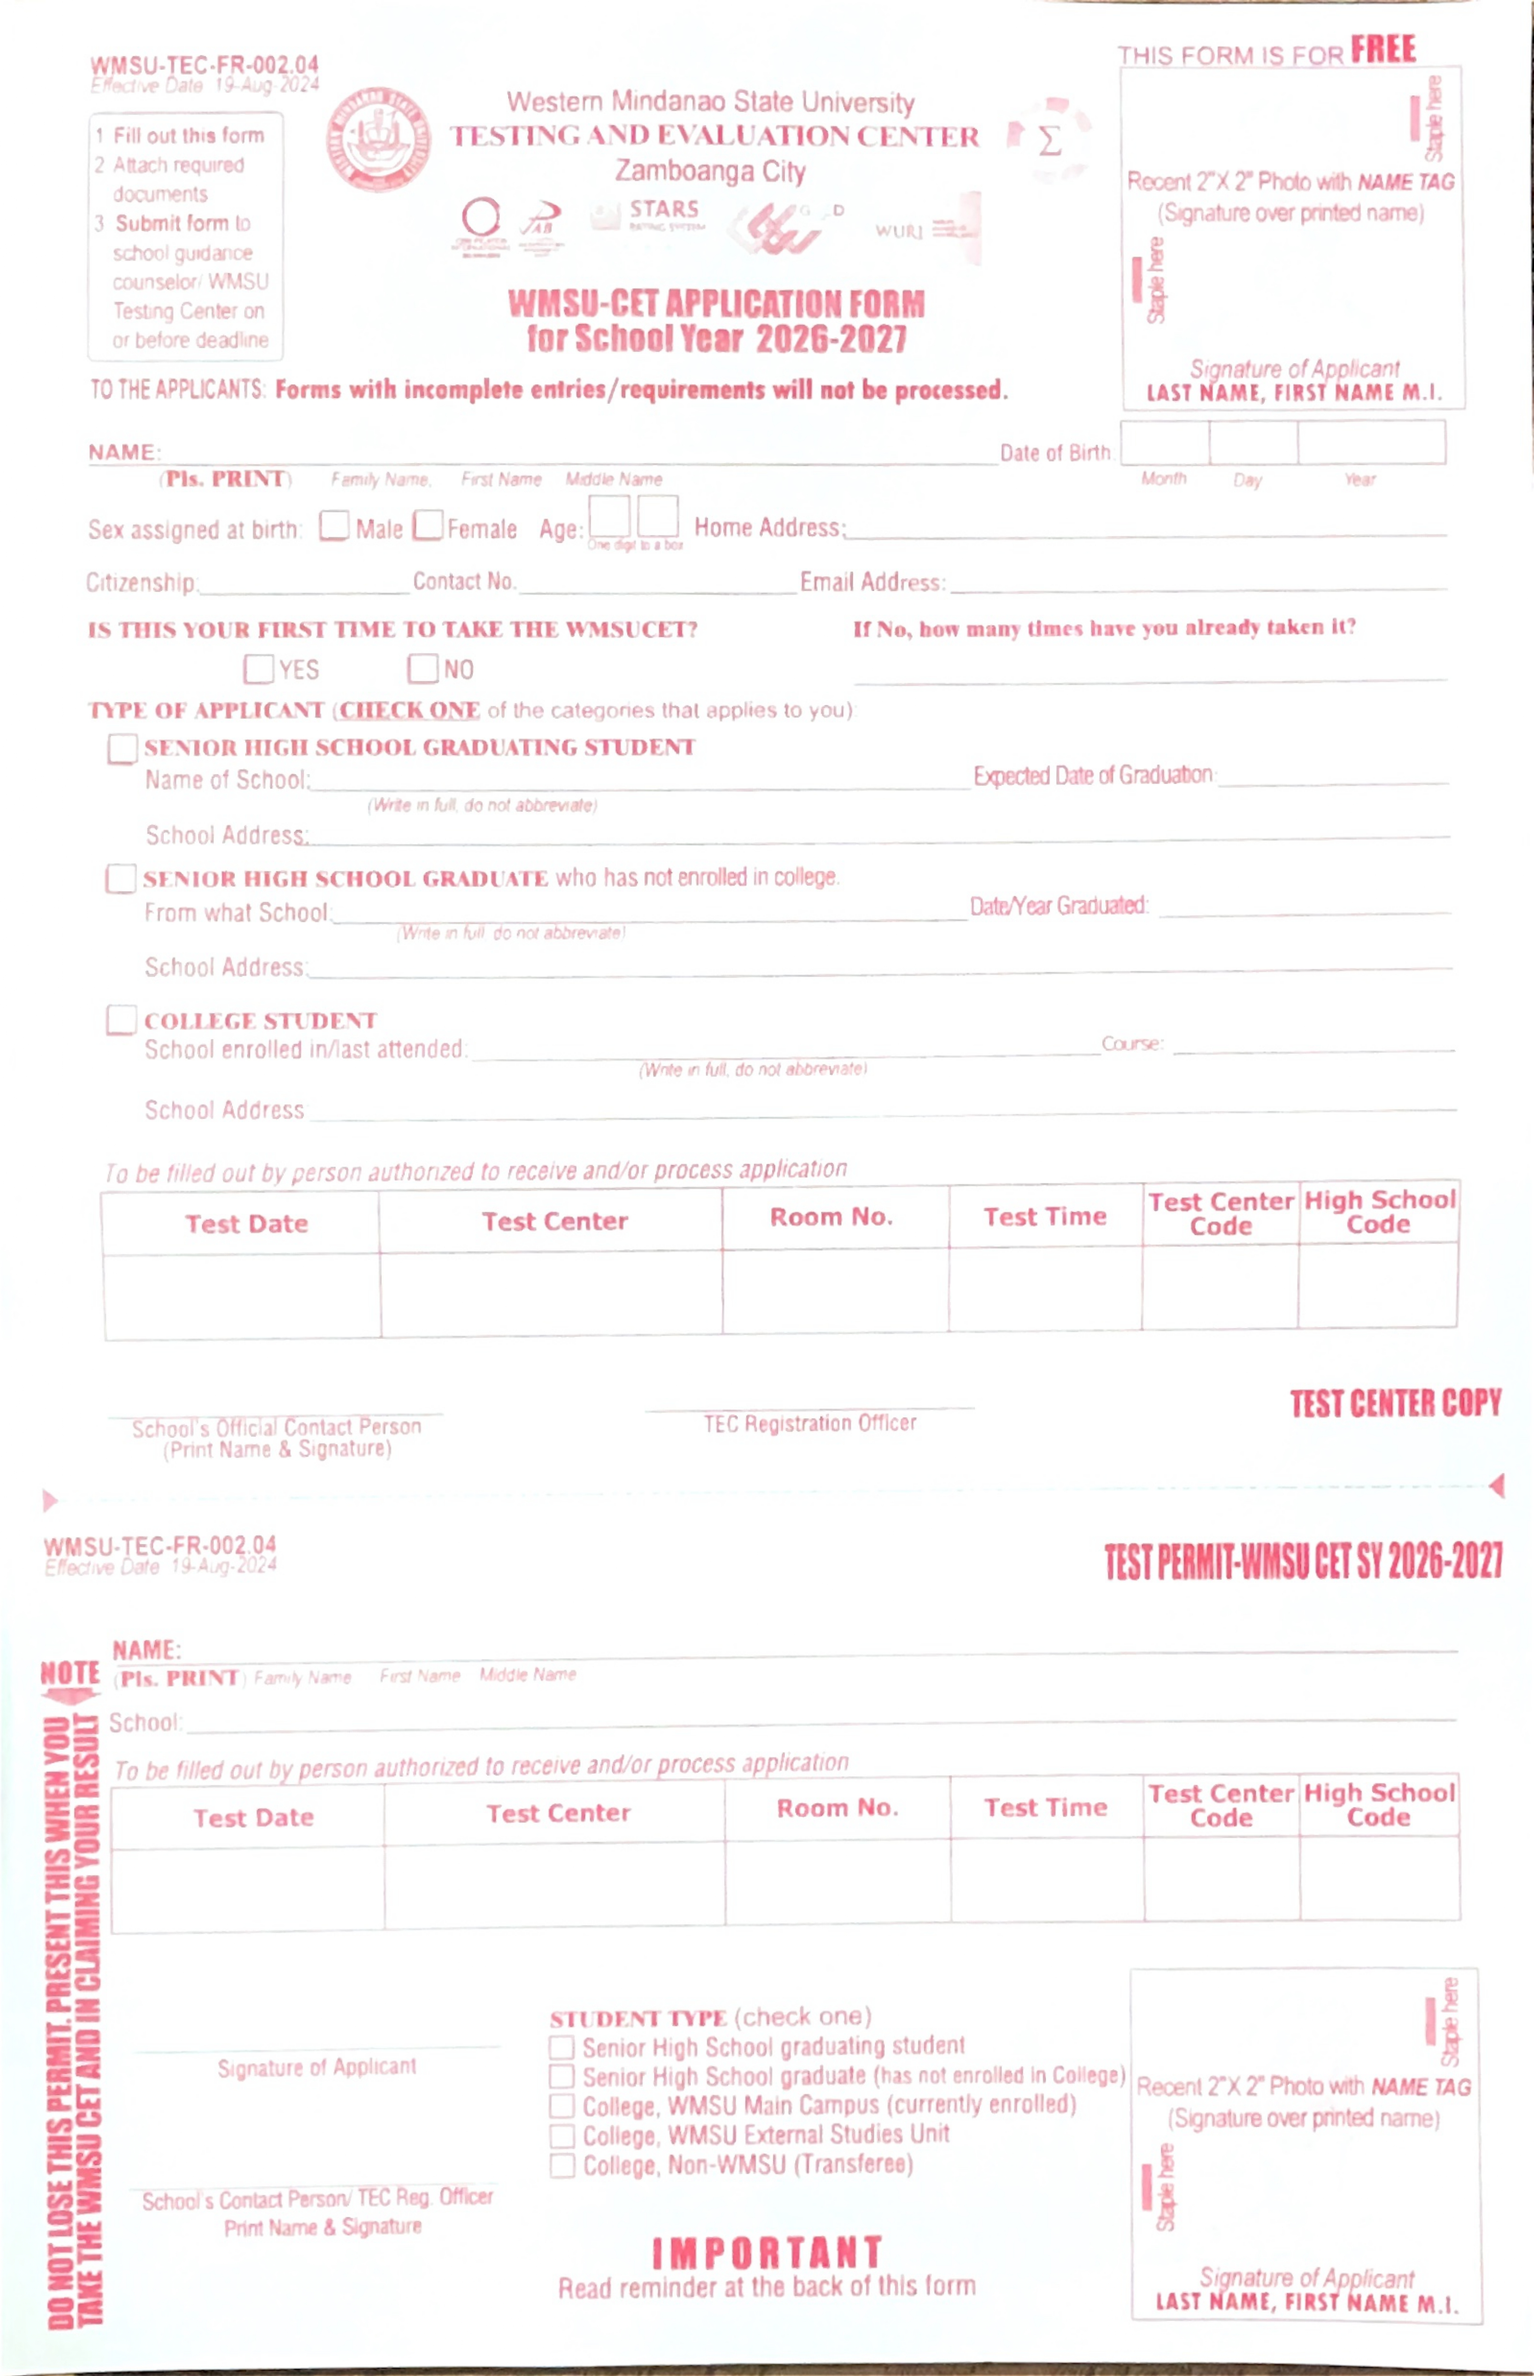
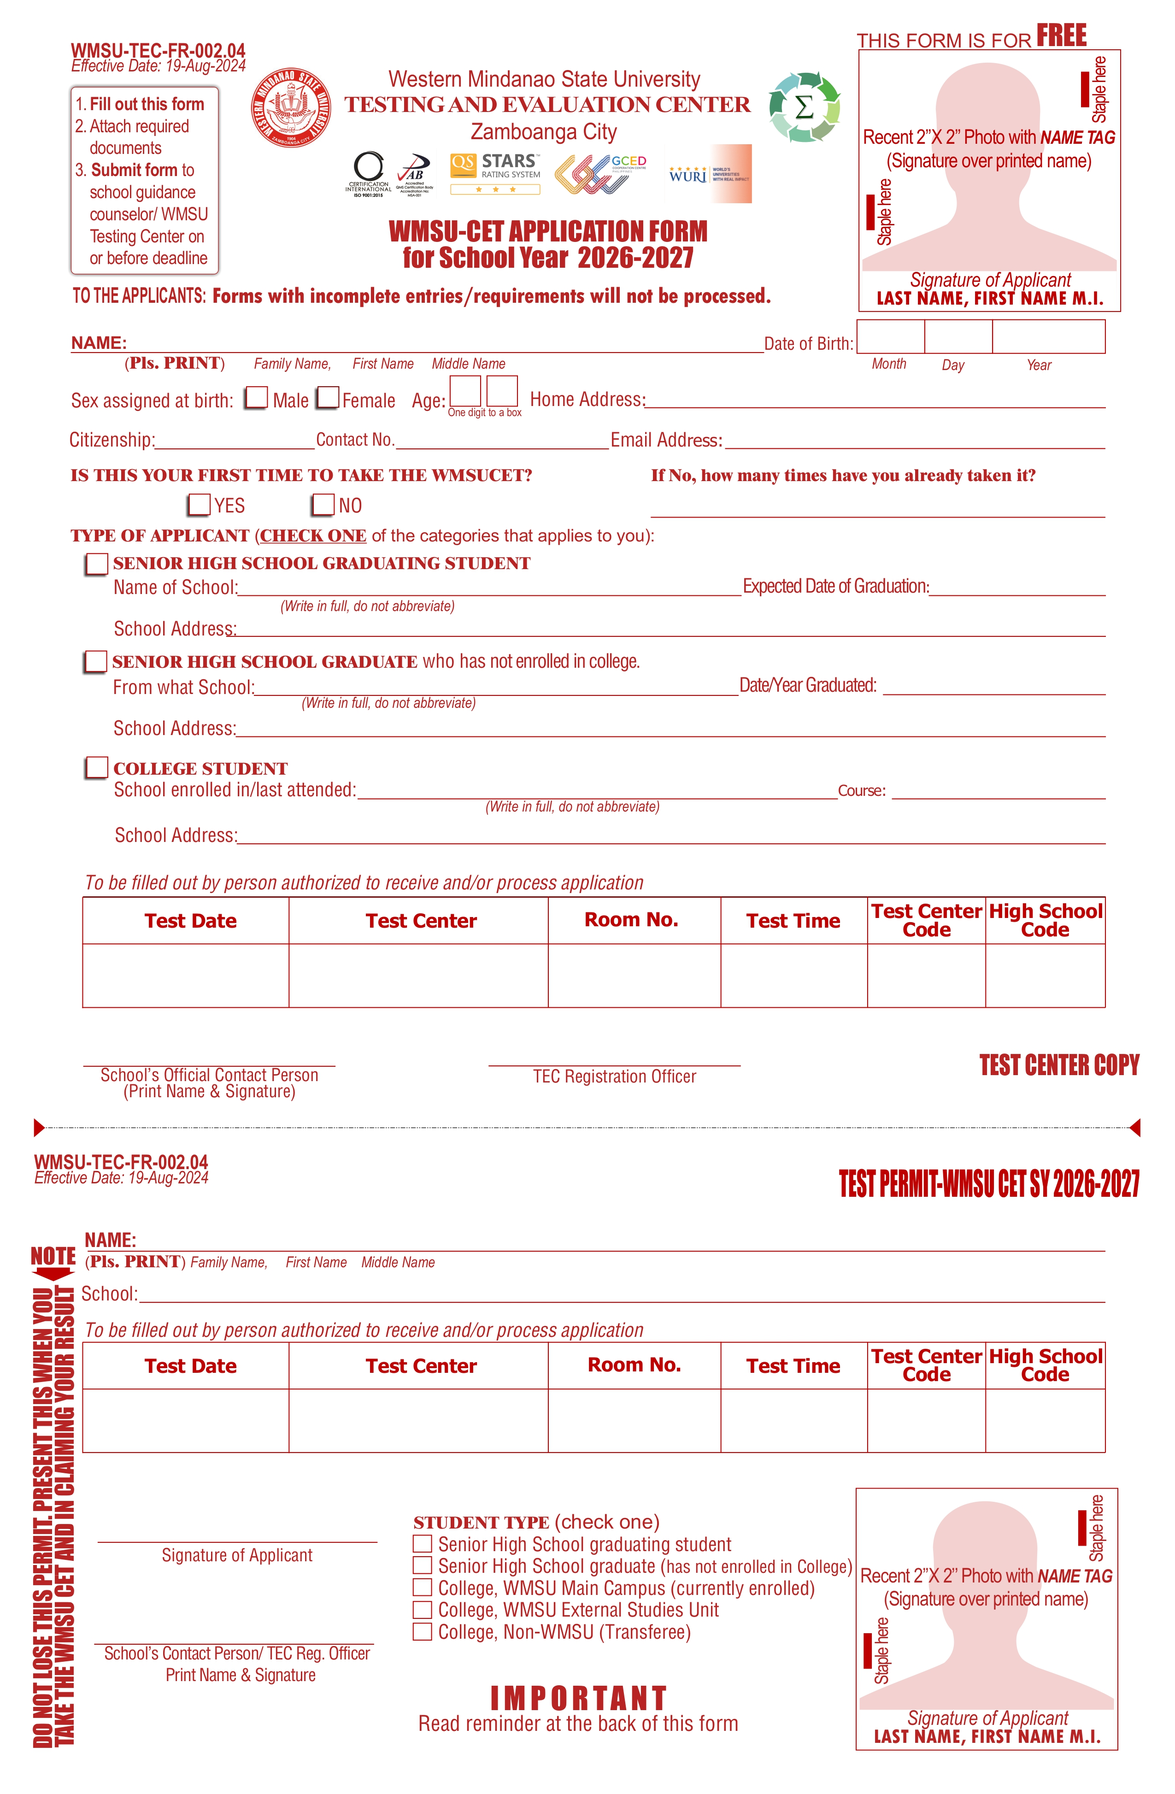
updated the application form

diff --git a/frontend/src/components/ApplicationForm.vue b/frontend/src/components/ApplicationForm.vue
@@ -41,24 +41,24 @@
           <span class="field field-college-course field-tight">{{ form.applicantType === 'college_student' ? (form.course ? form.course.toUpperCase() : '') : '' }}</span>
           <span class="field field-college-address field-tight">{{ form.applicantType === 'college_student' ? (form.schoolAddress ? form.schoolAddress.toUpperCase() : '') : '' }}</span>
 
-          <span class="field field-test-date field-tight">{{ appointmentInfo.test_date ? formatAppointmentDate(appointmentInfo.test_date).toUpperCase() : ((appointmentInfo.date) ? formatAppointmentDate(appointmentInfo.date).toUpperCase() : 'TO BE ASSIGNED') }}</span>
-          <span class="field field-test-center field-tight">{{ appointmentInfo.test_center ? appointmentInfo.test_center.toUpperCase() : 'TO BE ASSIGNED' }}</span>
-          <span class="field field-room field-tight">{{ (appointmentInfo.room_number ? (String(appointmentInfo.room_number) + (appointmentInfo.room_code ? ' ' + String(appointmentInfo.room_code) : '')).toUpperCase() : 'TO BE ASSIGNED') }}</span>
-          <span class="field field-time field-tight">{{ appointmentInfo.time_slot ? formatTimeSlot(appointmentInfo.time_slot).toUpperCase() : 'TO BE ASSIGNED' }}</span>
-          <span class="field field-center-code field-tight">{{ appointmentInfo.test_center_code ? String(appointmentInfo.test_center_code).toUpperCase() : 'TO BE ASSIGNED' }}</span>
-          <span class="field field-hs-code field-tight">{{ form.highSchoolCode ? String(form.highSchoolCode).toUpperCase() : 'NOT PROVIDED' }}</span>
+          <span class="field field-test-date field-table">{{ appointmentInfo.test_date ? formatAppointmentDate(appointmentInfo.test_date).toUpperCase() : ((appointmentInfo.date) ? formatAppointmentDate(appointmentInfo.date).toUpperCase() : 'TO BE ASSIGNED') }}</span>
+          <span class="field field-test-center field-table">{{ appointmentInfo.test_center ? appointmentInfo.test_center.toUpperCase() : 'TO BE ASSIGNED' }}</span>
+          <span class="field field-room field-table">{{ (appointmentInfo.room_number ? (String(appointmentInfo.room_number) + (appointmentInfo.room_code ? ' ' + String(appointmentInfo.room_code) : '')).toUpperCase() : 'TO BE ASSIGNED') }}</span>
+          <span class="field field-time field-table">{{ appointmentInfo.time_slot ? formatTimeSlot(appointmentInfo.time_slot).toUpperCase() : 'TO BE ASSIGNED' }}</span>
+          <span class="field field-center-code field-table">{{ appointmentInfo.test_center_code ? String(appointmentInfo.test_center_code).toUpperCase() : 'TO BE ASSIGNED' }}</span>
+          <span class="field field-hs-code field-table">{{ form.highSchoolCode ? String(form.highSchoolCode).toUpperCase() : 'NOT PROVIDED' }}</span>
 
           <div class="photo photo-top"></div>
 
           <span class="field field-permit-name field-tight">{{ form.name ? form.name.toUpperCase() : '' }}</span>
           <span class="field field-permit-school field-tight">{{ form.schoolName ? form.schoolName.toUpperCase() : '' }}</span>
 
-          <span class="field field-permit-test-date field-tight">{{ appointmentInfo.test_date ? formatAppointmentDate(appointmentInfo.test_date).toUpperCase() : ((appointmentInfo.date) ? formatAppointmentDate(appointmentInfo.date).toUpperCase() : 'TO BE ASSIGNED') }}</span>
-          <span class="field field-permit-test-center field-tight">{{ appointmentInfo.test_center ? appointmentInfo.test_center.toUpperCase() : 'TO BE ASSIGNED' }}</span>
-          <span class="field field-permit-room field-tight">{{ (appointmentInfo.room_number ? (String(appointmentInfo.room_number) + (appointmentInfo.room_code ? ' ' + String(appointmentInfo.room_code) : '')).toUpperCase() : 'TO BE ASSIGNED') }}</span>
-          <span class="field field-permit-time field-tight">{{ appointmentInfo.time_slot ? formatTimeSlot(appointmentInfo.time_slot).toUpperCase() : 'TO BE ASSIGNED' }}</span>
-          <span class="field field-permit-center-code field-tight">{{ appointmentInfo.test_center_code ? String(appointmentInfo.test_center_code).toUpperCase() : 'TO BE ASSIGNED' }}</span>
-          <span class="field field-permit-hs-code field-tight">{{ form.highSchoolCode ? String(form.highSchoolCode).toUpperCase() : 'NOT PROVIDED' }}</span>
+          <span class="field field-permit-test-date field-table">{{ appointmentInfo.test_date ? formatAppointmentDate(appointmentInfo.test_date).toUpperCase() : ((appointmentInfo.date) ? formatAppointmentDate(appointmentInfo.date).toUpperCase() : 'TO BE ASSIGNED') }}</span>
+          <span class="field field-permit-test-center field-table">{{ appointmentInfo.test_center ? appointmentInfo.test_center.toUpperCase() : 'TO BE ASSIGNED' }}</span>
+          <span class="field field-permit-room field-table">{{ (appointmentInfo.room_number ? (String(appointmentInfo.room_number) + (appointmentInfo.room_code ? ' ' + String(appointmentInfo.room_code) : '')).toUpperCase() : 'TO BE ASSIGNED') }}</span>
+          <span class="field field-permit-time field-table">{{ appointmentInfo.time_slot ? formatTimeSlot(appointmentInfo.time_slot).toUpperCase() : 'TO BE ASSIGNED' }}</span>
+          <span class="field field-permit-center-code field-table">{{ appointmentInfo.test_center_code ? String(appointmentInfo.test_center_code).toUpperCase() : 'TO BE ASSIGNED' }}</span>
+          <span class="field field-permit-hs-code field-table">{{ form.highSchoolCode ? String(form.highSchoolCode).toUpperCase() : 'NOT PROVIDED' }}</span>
 
           <span class="check check-student-shs">{{ form.applicantType === 'senior_high_student' ? 'X' : '' }}</span>
           <span class="check check-student-shg">{{ form.applicantType === 'senior_high_graduate' ? 'X' : '' }}</span>
@@ -677,7 +677,7 @@ watch(() => props.popupMode, (newVal) => {
 .form-overlay {
   position: absolute;
   inset: 0;
-  font-size: 8px;
+  font-size: 12px;
   color: #000000;
 }
 
@@ -687,18 +687,26 @@ watch(() => props.popupMode, (newVal) => {
   white-space: nowrap;
   overflow: visible;
   letter-spacing: -0.1px;
+  font-weight: bold;
 }
 
 .field-tight {
-  font-size: 6.5px;
+  font-size: 10px;
   letter-spacing: -0.2px;
   transform: scaleX(0.9);
   transform-origin: left center;
 }
 
+.field-table {
+  font-size: 8.5px;
+  letter-spacing: -0.3px;
+  transform: scaleX(0.8);
+  transform-origin: center center;
+}
+
 .check {
   position: absolute;
-  font-size: 12px;
+  font-size: 14px;
   font-weight: bold;
   text-align: center;
   width: 0.18in;
@@ -724,39 +732,39 @@ watch(() => props.popupMode, (newVal) => {
    Corrected Values applied here!
 ------------------------------------- */
 
-.field-name { left: 1.05in; top: 2.52in; width: 4.25in; }
-.field-birth-month { left: 6.28in; top: 2.50in; width: 0.3in; text-align: center; }
-.field-birth-day { left: 6.66in; top: 2.50in; width: 0.3in; text-align: center; }
-.field-birth-year { left: 7.05in; top: 2.50in; width: 0.45in; text-align: center; }
+.field-name { left: 1.05in; top: 2.41in; width: 4.25in; }
+.field-birth-month { left: 6.33in; top: 2.45in; width: 0.3in; text-align: center; }
+.field-birth-day { left: 6.71in; top: 2.45in; width: 0.3in; text-align: center; }
+.field-birth-year { left: 7.12in; top: 2.45in; width: 0.45in; text-align: center; }
 
 .check-sex-male { left: 1.7in; top: 2.98in; }
 .check-sex-female { left: 2.22in; top: 2.98in; }
 
-.field-age { left: 3.27in; top: 2.90in; width: 0.5in; text-align: center; letter-spacing: 0.18in; padding-left: 0.1in; }
-.field-address { left: 5.00in; top: 3.00in; width: 3.63in; }
+.field-age { left: 3.27in; top: 2.85in; width: 0.5in; text-align: center; letter-spacing: 0.18in; padding-left: 0.1in; }
+.field-address { left: 5.00in; top: 2.89in; width: 3.63in; }
 
-.field-citizenship { left: 1.15in; top: 3.38in; width: 1.25in; }
-.field-contact { left: 3.20in; top: 3.38in; width: 1.0in; }
-.field-email { left: 5.67in; top: 3.38in; width: 1.88in; }
+.field-citizenship { left: 1.15in; top: 3.27in; width: 1.25in; }
+.field-contact { left: 3.20in; top: 3.27in; width: 1.0in; }
+.field-email { left: 5.67in; top: 3.27in; width: 1.88in; }
 
 .check-first-yes { left: 1.55in; top: 3.85in; }
 .check-first-no { left: 2.21in; top: 3.77in; }
 .field-times-taken { left: 6.35in; top: 3.85in; width: 1.25in; text-align: center; }
 
 .check-app-shs { left: 0.61in; top: 4.25in; }
-.field-shs-school { left: 1.85in; top: 4.45in; width: 3.7in; }
-.field-shs-grad { left: 6.35in; top: 4.70in; width: 1.3in; text-align: center; }
-.field-shs-address { left: 1.55in; top: 4.94in; width: 6.15in; }
+.field-shs-school { left: 1.85in; top: 4.36in; width: 3.7in; }
+.field-shs-grad { left: 6.35in; top: 4.61in; width: 1.3in; text-align: center; }
+.field-shs-address { left: 1.55in; top: 4.85in; width: 6.15in; }
 
 .check-app-shg { left: 0.35in; top: 5.50in; }
-.field-shg-school { left: 1.55in; top: 5.50in; width: 3.9in; }
-.field-shg-grad { left: 6.35in; top: 5.50in; width: 1.3in; text-align: center; }
-.field-shg-address { left: 1.55in; top: 5.74in; width: 6.15in; }
+.field-shg-school { left: 1.55in; top: 5.41in; width: 3.9in; }
+.field-shg-grad { left: 6.35in; top: 5.41in; width: 1.3in; text-align: center; }
+.field-shg-address { left: 1.55in; top: 5.65in; width: 6.15in; }
 
 .check-app-college { left: 0.35in; top: 6.25in; }
-.field-college-school { left: 2.1in; top: 6.24in; width: 3.45in; }
-.field-college-course { left: 6.35in; top: 6.24in; width: 1.3in; }
-.field-college-address { left: 1.55in; top: 6.47in; width: 6.15in; }
+.field-college-school { left: 2.1in; top: 6.15in; width: 3.45in; }
+.field-college-course { left: 6.35in; top: 6.15in; width: 1.3in; }
+.field-college-address { left: 1.55in; top: 6.38in; width: 6.15in; }
 
 .field-test-date { left: 0.95in; top: 7.42in; width: 1.25in; text-align: center; }
 .field-test-center { left: 2.35in; top: 7.42in; width: 1.6in; text-align: center; }
@@ -769,8 +777,8 @@ watch(() => props.popupMode, (newVal) => {
 
 /* Bottom section positions (inches) */
 
-.field-permit-name { left: 1.05in; top: 9.62in; width: 4.7in; }
-.field-permit-school { left: 1.05in; top: 10.12in; width: 4.7in; }
+.field-permit-name { left: 1.05in; top: 9.51in; width: 4.7in; }
+.field-permit-school { left: 1.05in; top: 10.01in; width: 4.7in; }
 
 .field-permit-test-date { left: 1.15in; top: 10.95in; width: 1.2in; text-align: center; }
 .field-permit-test-center { left: 2.55in; top: 10.95in; width: 1.6in; text-align: center; }
@@ -779,11 +787,11 @@ watch(() => props.popupMode, (newVal) => {
 .field-permit-center-code { left: 6.52in; top: 10.95in; width: 0.75in; text-align: center; }
 .field-permit-hs-code { left: 7.32in; top: 10.95in; width: 0.85in; text-align: center; }
 
-.check-student-shs { left: 3.05in; top: 11.95in; }
-.check-student-shg { left: 3.05in; top: 12.15in; }
-.check-student-wmsu-main { left: 3.05in; top: 12.35in; }
-.check-student-wmsu-external { left: 3.05in; top: 12.55in; }
-.check-student-non-wmsu { left: 3.05in; top: 12.75in; }
+.check-student-shs { left: 3.00in; top: 11.85in; }
+.check-student-shg { left: 3.00in; top: 12.05in; }
+.check-student-wmsu-main { left: 3.00in; top: 12.25in; }
+.check-student-wmsu-external { left: 3.00in; top: 12.45in; }
+.check-student-non-wmsu { left: 3.00in; top: 12.65in; }
 
 .photo-bottom { right: 0.45in; top: 11.65in; }
 
@@ -810,7 +818,7 @@ watch(() => props.popupMode, (newVal) => {
   padding: 2px;
   text-align: center;
   font-weight: bold;
-  font-size: 6px;
+  font-size: 8px;
   color: #bf0000;
   background: white;
   width: 33px;
@@ -851,7 +859,7 @@ input[type="text"] { border: none; padding: 0; margin: 0; }
 }
 
 .pdf-text {
-  font-size: 8px;
+  font-size: 10px;
   line-height: 1.2;
   padding: 1px 0;
   overflow: hidden;
@@ -860,7 +868,7 @@ input[type="text"] { border: none; padding: 0; margin: 0; }
 }
 
 @media print {
-  .pdf-text { font-size: 9px !important; line-height: 1.1 !important; }
+  .pdf-text { font-size: 11px !important; line-height: 1.1 !important; }
 }
 
 .form-text {
